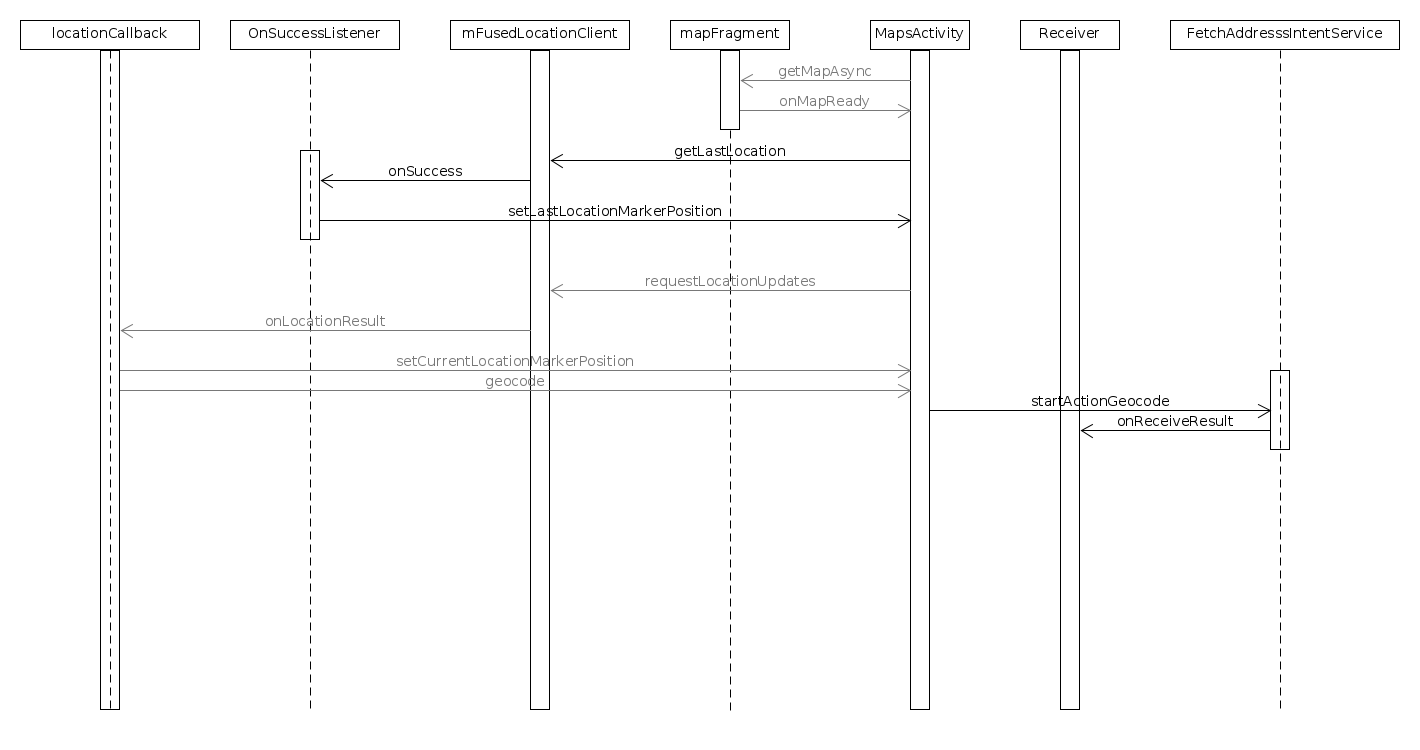
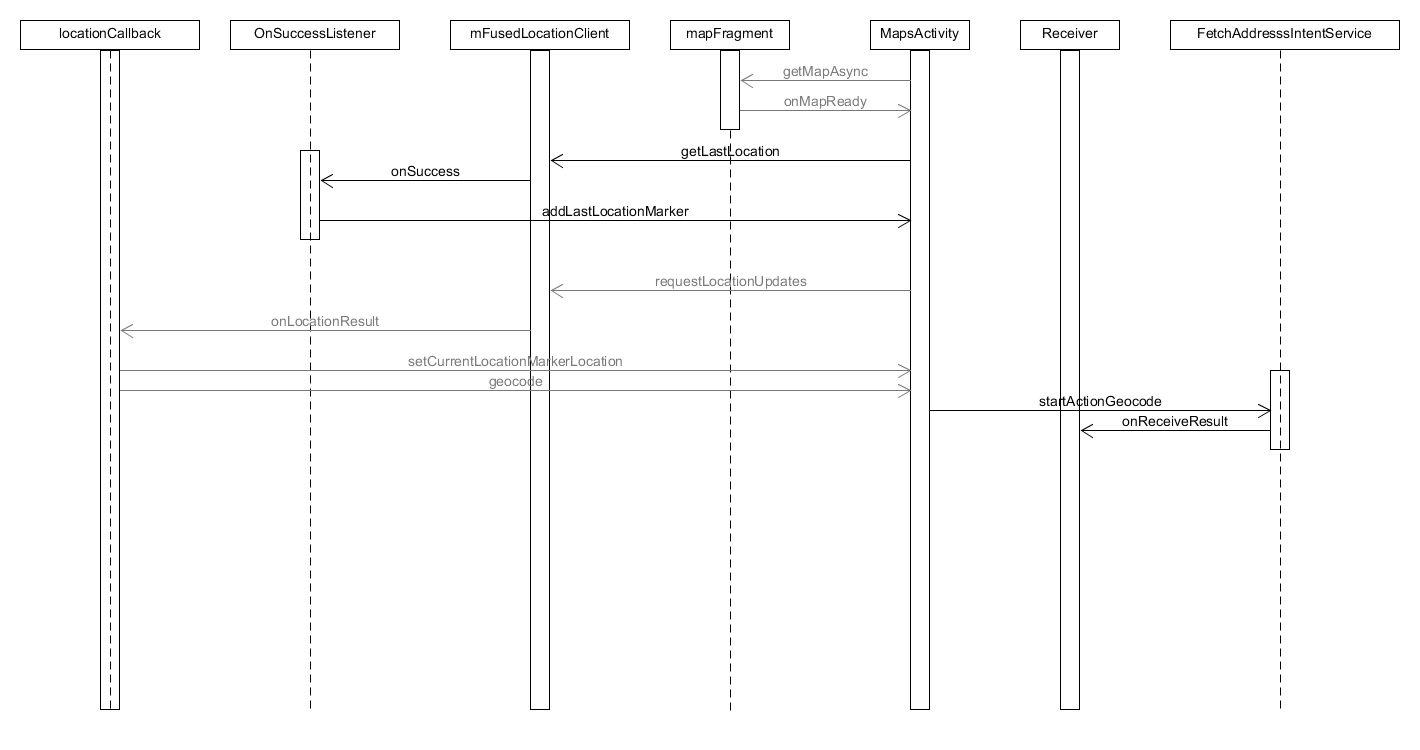
relecture

diff --git a/3_google_services/README.md b/3_google_services/README.md
@@ -29,6 +29,8 @@ Et nommez-la `PositionName` :
 
 ## Pas à pas des modifications
 
+L'application devient vite touffue... Pensez à regarder le [diagramme UML](uml/PositionName.png) de l'application pour avoir un résumé des signatures des fonctions à implémenter et le [diagramme de séquence](uml/sequence.png) pour mieux suivre l'enchaînement des fonctions.
+
 ### 1) Clef d'API
 
 A la création de votre projet, Android Studio doit vous ouvrir le fichier `app/manifests/AndroidManifest.xml`. Si ce n'est pas le cas, faites-le.
@@ -389,7 +391,7 @@ Enfin, nous allons compléter la fonction.
 ```
 Comme vous pouvez le voir, la récupération de la dernière position peut échouer, on a donc un écouteur d’événement qui gère le succès de l'opération et un autre l'échec...
 
-Modifier ce code pour que si la position est trouvée il ajout une autre balise sur la carte (vous pouvez par exemple créer une fonction `public void setLastLocationMarkerPosition(Location location)`, voir le [diagramme UML](uml/PositionName.png) pour avoir la liste des fonctions qu'il faudra créer).
+Modifier ce code pour que si la position est trouvée il ajout une autre balise sur la carte (vous pouvez par exemple créer une fonction `public void addLastLocationMarker(Location location)`, voir le [diagramme UML](uml/PositionName.png) pour avoir la liste des fonctions qu'il faudra créer).
 
 Voici un exemple de code attendu à l'issue de cet étape :
 
@@ -451,7 +453,7 @@ public class MapsActivity extends FragmentActivity implements OnMapReadyCallback
                         // On a eu la dernière position, on vérifie qu'elle n'est pas nulle
                         if (location != null) {
                             Log.i("ENSG", "Position:" + location);
-                            MapsActivity.this.addLastLocationMarker(location);
+                            addLastLocationMarker(location);
                         } else {
                             Log.i("ENSG", "Position nulle...");
                         }
@@ -533,7 +535,7 @@ Ensuite, nous allons exécuter la requête de position et lui associer un *callb
 
 Comme vous pouvez le voir, le second paramètre de la fonction est un callback, donc une classe avec une fonction à exécuter lorsque la position est trouvée. Vous pouvez simplement le déclarer juste avant.
 
-Modifier le code de `onLocationResult` pour afficher et déplacer le marqueur de la position courante (créez par exemple une fonction `public void setCurrentLocationMarkerPosition(Location location)`).
+Modifier le code de `onLocationResult` pour afficher et déplacer le marqueur de la position courante (créez par exemple une fonction `public void setCurrentLocationMarkerLocation(Location location)`).
 
 Voici un exemple du code attendu :
 
@@ -598,7 +600,7 @@ public class MapsActivity extends FragmentActivity implements OnMapReadyCallback
                         // On a eu la dernière position, on vérifie qu'elle n'est pas nulle
                         if (location != null) {
                             Log.i("ENSG", "Position:" + location);
-                            MapsActivity.this.addLastLocationMarker(location);
+                            addLastLocationMarker(location);
                         } else {
                             Log.i("ENSG", "Position nulle...");
                         }
@@ -637,7 +639,7 @@ public class MapsActivity extends FragmentActivity implements OnMapReadyCallback
             public void onLocationResult(LocationResult locationResult) {
                 for (Location location : locationResult.getLocations()) {
                     Log.i("ENSG", "currentLocation : " + location);
-                    MapsActivity.this.setCurrentLocationMarkerPosition(location);
+                    setCurrentLocationMarkerLocation(location);
                 }
             };
         };
@@ -645,7 +647,7 @@ public class MapsActivity extends FragmentActivity implements OnMapReadyCallback
         mFusedLocationClient.requestLocationUpdates(locationRequest, locationCallback, null);
     }
 
-    public void setCurrentLocationMarkerPosition(Location location) {
+    public void setCurrentLocationMarkerLocation(Location location) {
         // Est-ce que la carte est ok ?
         if (mMap != null) {
             LatLng position = new LatLng(location.getLatitude(), location.getLongitude());
@@ -835,7 +837,7 @@ La fonction parait longue mais est en fait très simple :
 Dans votre classe d'activité, il faut ajouter un attribut de type `ResultReceiver` pour gérer la réception du résultat :
 
 ```java
-    private final ResultReceiver currentPositionResultReceiver = new ResultReceiver(new Handler()) {
+    private final ResultReceiver currentLocationResultReceiver = new ResultReceiver(new Handler()) {
         @Override
         protected void onReceiveResult(int resultCode, Bundle resultData) {
 
@@ -843,12 +845,12 @@ Dans votre classe d'activité, il faut ajouter un attribut de type `ResultReceiv
             if (resultCode == FetchAddressIntentService.EXTRA_RESULT_SUCCESS) {
                 // Yes (result is address)
                 String result = resultData.getString(FetchAddressIntentService.EXTRA_RESULT_ADDRESS);
-                MapsActivity.this.setCurrentLocationMarkerTitle(result);
+                setCurrentLocationMarkerTitle(result);
                 Toast.makeText(getApplicationContext(), result, Toast.LENGTH_SHORT).show();
             } else {
                 // No (result is error message)
                 String message = resultData.getString(FetchAddressIntentService.EXTRA_RESULT_MESSAGE);
-                MapsActivity.this.setCurrentLocationMarkerTitle("");
+                setCurrentLocationMarkerTitle("");
                 Toast.makeText(getApplicationContext(), message, Toast.LENGTH_LONG).show();
             }
         }
@@ -859,7 +861,7 @@ On crée une fonction pour lancer l'appel au service de géocodage :
 
 ```java
     public void geocode(Location location) {
-        FetchAddressIntentService.startActionGeocode(this, location, currentPositionResultReceiver);
+        FetchAddressIntentService.startActionGeocode(this, location, currentLocationResultReceiver);
     }
 ```
 

diff --git a/1_hello_world/README.md b/1_hello_world/README.md
@@ -34,6 +34,8 @@ Regardez la structure du projet créé par Android Studio :
 
 Nous allons regarder les fichiers `manifests/AndroidManifest.xml`, `java/MainActivity`, et `res/layout/activity_main.xml` (en mode Design et Text) :
 
+### Android Manifest
+
 ![Structure du projet - Android Manifest](screens/2_environnement_2_manifest.png)
 
 Un fichier [AndroidManifest.xml](https://developer.android.com/guide/topics/manifest/manifest-intro) a été généré, il contient notamment :
@@ -42,9 +44,13 @@ Un fichier [AndroidManifest.xml](https://developer.android.com/guide/topics/mani
 * la liste des composants (activités, services, ...) ;
 * les autorisations (pour le moment aucune).
 
+### Android MainActivity
+
 ![Structure du projet - MainActivity.java](screens/2_environnement_3_MainActivity.png)
 
 Ce fichier contient la classe Java associée à l'activité principale de l'application. C'est son contrôleur, qui permet de gérer les interactions de l'utilisateur et de faire vivre la vue associée (la créer, afficher des informations, ...).
+
+### Android activity_main
 
 ![Structure du projet - activity_main.xml - Design](screens/2_environnement_4_activity_main_design.png)
 
@@ -52,13 +58,23 @@ Ce fichier contient la classe Java associée à l'activité principale de l'appl
 
 Ce fichier permet de créer l'interface graphique qui sera affichée à l'ouverture, vous pouvez l'éditer en mode design ou en mode texte.
 
+### Gradle "Module"
+
+![Gradle "Module"](screens/2_environnement_8_gradle_2.png)
+
+Ce fichier liste les instructions de compilation et les dépendances. Il est exploité par Gradle qui est l'outil de construction du projet.
+
+Vous pouvez également voir le numéro de SDK ciblé par notre application. Une version trop ancienne d'Android ne pourrait pas la faire tourner.
+
+### Premier lancement !
+
 Vous pouvez lancer l'application (voir [Utiliser les émulateurs](../0_ressources/utiliser_emulateurs.md) pour créer un émulateur) :
 
 ![Run App](screens/2_environnement_7_run_app.png)
 
 Si rien en se passe, regardez en bas à droite, Gradle doit être en train de compiler votre projet :
 
-![Gradle compile](screens/2_environnement_8_gradle.png)
+![Gradle compile](screens/2_environnement_8_gradle_1.png)
 
 ## Les activités
 
@@ -139,7 +155,7 @@ public class MainActivity extends AppCompatActivity {
 }
 ```
 
-La classe `Log` ne doit pas être importée par défaut. Positionnez votre curseur sur le mot-clef `Log` en rouge en cliquez sur `<Alt>` + `<Entrée>` pour importer automatiquement.
+La classe `Log` ne doit pas être importée par défaut. Positionnez votre curseur sur le mot-clef `Log` en rouge et appuyez sur `<Alt>` + `<Entrée>` pour importer automatiquement.
 
 Vous pouvez alors lancer l'application en allant dans l'onglet **Logcat** et en entrant « ENSG » (ou le tag que vous avez utilisé) dans le filtre. Quittez et ré-ouvrez l'application avant de la fermer via le gestionnaire. Regardez les logs :
 

diff --git a/2_pile_ou_face/README.md b/2_pile_ou_face/README.md
@@ -233,7 +233,7 @@ import android.widget.TextView;
 import java.util.Random;
 ```
 
-Vous utilisez des librairies, il faut donc les importer (Android Studio arrive très bien à vous proposer d'ajouter automatiquement les librairies les plus courantes, utilisez le `Alt+Entrer`).
+Vous utilisez des librairies, il faut donc les importer (Android Studio arrive très bien à vous proposer d'ajouter automatiquement les librairies les plus courantes, utilisez le `Alt+Entrée`).
 
 ### 4) Ajout du bouton
 
@@ -258,8 +258,8 @@ Maintenant, nous devons ajouter l'écouteur d'événement. Nous allons utiliser 
         b_flip_coin.setOnClickListener(new View.OnClickListener() {
             @Override
             public void onClick(View v) {
-                // On appel la méthode pour lancer la pièce
-                MainActivity.this.coinFlip();
+                // On appelle la méthode pour lancer la pièce
+                coinFlip();
             }
         });
 
@@ -271,7 +271,7 @@ Dans ce code, est instancié un écouteur d'événement anonyme (non stocké dan
 
 La méthode `onClick` de cet écouteur est appelée au clic sur le bouton.
 
-On fait alors appel à la méthode qu'on a crée précédemment, attention, nous ne sommes plus dans la classe `MainActivity`, il ne faut pas faire simplement `this.coinFlip()`, mais `MainActivity.this.coinFlip()`.
+On fait alors appel à la méthode qu'on a crée précédemment.
 
 Vous pouvez modifier le programme pour *ajouter* le dernier lancé au `TextView`... (Il faudra lors ajouter un `ScrollView` autour du `TextView`...)
 
@@ -296,8 +296,8 @@ public class MainActivity extends AppCompatActivity {
         b_flip_coin.setOnClickListener(new View.OnClickListener() {
             @Override
             public void onClick(View v) {
-                // On appel la méthode pour lancer la pièce
-                MainActivity.this.coinFlip();
+                // On appelle la méthode pour lancer la pièce
+                coinFlip();
             }
         });
 

diff --git a/4_photo/README.md b/4_photo/README.md
@@ -21,7 +21,7 @@ L'application sera composée d'un écran permettant de visualiser et prendre une
 
 ## Mise en place
 
-Créer un nouveau projet appelé `CameraX` avec une première activité de type **Empty Activity** nommée `MainActivity`.
+Créez un nouveau projet appelé `CameraX` avec une première activité de type **Empty Activity** nommée `MainActivity`.
 
 ## Pas à pas des modifications
 
@@ -44,7 +44,7 @@ dependencies {
 }
 ```
 
-Vérifiez que dans le bloc "android" soit bien indiqué de compiler avec Java 8 :
+Vérifiez que dans le bloc "android" se soit bien indiqué de compiler avec Java 8 :
 
 ```js
 android {
@@ -57,7 +57,7 @@ android {
 }
 ```
 
-A la fin du bloc "android" ajoutez la buildFeature `viewBinding` :
+A la fin du bloc "android" ajoutez la *buildFeature* `viewBinding` :
 
 ```js
 android {
@@ -149,7 +149,7 @@ Et créez la méthode `startCamera()` :
     }
 ```
 
-Essayez de lancer l'application. A ce stade elle doit demander l'autorisation et loguer que c'est ok.
+Essayez de lancer l'application. A ce stade elle doit demander l'autorisation et on doit voir le log de la fonction `startCamera`.
 
 
 ### 4) Prévisualisation
@@ -219,7 +219,7 @@ Deux choix s'offrent à nous :
 
 Pour pouvoir insérer un fichier, nous avons besoin de le décrire : donner son nom, donner son type (image, vidéo, audio, ...). Cela permet au système de le référencer.
 
-NB : il faudrait gérer l'ancienne méthode de création de fichiers pour les utilisateurs avant Android 10. Nous n'allons pas faire cela ici.
+NB : il faudrait gérer l'ancienne méthode de création de fichiers pour les utilisateurs avant Android 10 (et là nous aurions besoin de l'autorisation d'écriture pour écrire en dehors de la zone réservée). Nous n'allons pas faire cela ici.
 
 Ajoutez la méthode `takePicture` à votre classe `MainActivity` :
 

diff --git a/7_resume/README.md b/7_resume/README.md
@@ -128,7 +128,7 @@ public class MainActivity extends AppCompatActivity {
             @Override
             public void onClick(View view) {
                 // Appel d'une méthode de la classe d'activité
-                MainActivity.this.askDayFunction();
+                askDayFunction();
             }
         });
 
